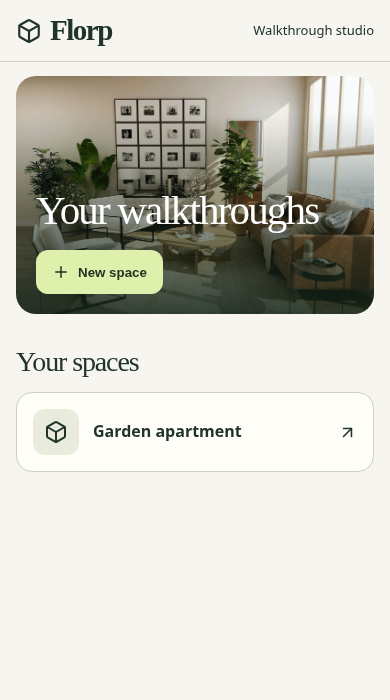
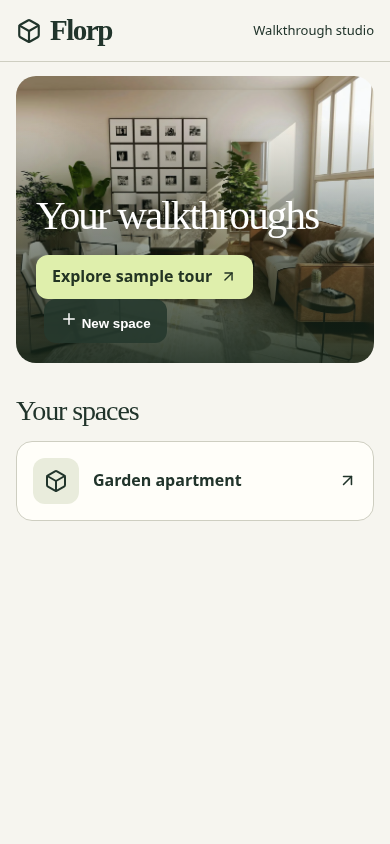
Present saved floors as guided room tours with a shareable mobile showcase

diff --git a/apps/web/components/plan/Showcase.tsx b/apps/web/components/plan/Showcase.tsx
@@ -1,0 +1,136 @@
+"use client";
+import {useEffect,useMemo,useState} from "react";
+import {Canvas,useThree} from "@react-three/fiber";
+import {Html,OrbitControls} from "@react-three/drei";
+import {Vector3} from "three";
+import Link from "next/link";
+import {ArrowLeft,Maximize2,Minimize2,Box,ChevronLeft,ChevronRight,MapPin,Pause,Play,Share2} from "lucide-react";
+import {SceneMesh} from "./SceneMesh";
+import {metersPerPixel} from "../../lib/plan/derive";
+import {savedPose} from "../../lib/plan/camera";
+import type {PlanModel} from "../../lib/plan/model";
+import type {Scene,View} from "../../lib/plan/scene";
+
+function SampleFurniture({interior}:{interior:boolean}){
+  function block(x:number,y:number,z:number,w:number,h:number,d:number,color:string){
+    return <mesh position={[x,y,z]}><boxGeometry args={[w,h,d]}/><meshStandardMaterial color={color}/></mesh>;
+  }
+  return <>
+    {Array.from({length:27},(_,i)=><group key={"board"+i}>
+      {block(5,.002,i*.25+.1,9.9,.002,.006,"#aa865f")}
+    </group>)}
+    {[3.31,4.64,5.94].map(x=><group key={x}>{block(x,1.58,.008,.035,1.65,.08,"#756955")}</group>)}
+    {block(4.625,.75,.01,2.71,.07,.17,"#99816a")}
+    {block(4.625,2.4,.01,2.71,.06,.08,"#756955")}
+    {[2.11,3.71,5.29].map(z=><group key={z}>{block(.01,1.58,z,.08,1.65,.035,"#756955")}</group>)}
+    {interior&&<>
+      {block(3,-.13,-1,50,.14,50,"#a8b391")}
+      {[-4,-1,2,6,9,14].map((x,i)=><group key={x} position={[x,0,-4-i%2]}>
+        {block(0,1,0,.2,2,.2,"#87785b")}
+        <mesh position={[0,2.6,0]} scale={[1.5,1.6+i%2*.4,1.4]}><icosahedronGeometry args={[1,2]}/><meshStandardMaterial color={i%2?"#8eaa7d":"#78946a"}/></mesh>
+      </group>)}
+    </>}
+    {block(2.6,1.7,.09,1.3,.94,.06,"#846447")}
+    {Array.from({length:27},(_,i)=><group key={"board"+i}>
+      {block(5,.002,i*.25+.1,9.9,.002,.006,"#aa865f")}
+    </group>)}
+    {[3.31,4.64,5.94].map(x=><group key={x}>{block(x,1.58,.008,.035,1.65,.08,"#756955")}</group>)}
+    {block(4.625,.75,.01,2.71,.07,.17,"#99816a")}
+    {block(4.625,2.4,.01,2.71,.06,.08,"#756955")}
+    {[2.11,3.71,5.29].map(z=><group key={z}>{block(.01,1.58,z,.08,1.65,.035,"#756955")}</group>)}
+    {interior&&<>
+      {block(3,-.13,-1,50,.14,50,"#a8b391")}
+      {[-4,-1,2,6,9,14].map((x,i)=><group key={x} position={[x,0,-4-i%2]}>
+        {block(0,1,0,.2,2,.2,"#87785b")}
+        <mesh position={[0,2.6,0]} scale={[1.5,1.6+i%2*.4,1.4]}><icosahedronGeometry args={[1,2]}/><meshStandardMaterial color={i%2?"#8eaa7d":"#78946a"}/></mesh>
+      </group>)}
+    </>}
+    {block(2.6,1.7,.135,1.19,.82,.04,"#dec59d")}
+    {block(2.78,1.62,.165,.45,.56,.025,"#aa694d")}
+    {block(2.35,1.78,.166,.3,.28,.025,"#62746a")}
+    {block(2.55,.015,2.35,3.8,.028,2.85,"#d3bca0")}
+    {block(2.4,.29,1.46,2.8,.54,1,"#68755d")}
+    {[1.57,2.4,3.23].map(x=><group key={x}>{block(x,.59,1.53,.79,.18,.72,"#8a9b7b")}</group>)}
+    {block(2.4,.7,1.06,2.8,.55,.24,"#78856c")}
+    {[1.11,3.69].map(x=><group key={x}>{block(x,.48,1.45,.24,.67,1,"#78856c")}</group>)}
+    {block(2.5,.36,2.85,1.5,.12,.68,"#b48358")}{block(2.5,.18,2.85,.86,.32,.43,"#896345")}
+    {block(3.96,.77,5.07,1.75,.12,1,"#b8875f")}
+    {[3.3,4.64].flatMap(x=>[4.72,5.42].map(z=><group key={x+"-"+z}>{block(x,.38,z,.09,.74,.09,"#796046")}</group>))}
+    {[4.27,5.88].map(z=><group key={z}>{block(3.95,.26,z,.55,.48,.5,"#a08a71")}{block(3.95,.61,z+(z<5?-.2:.2),.55,.46,.09,"#bda48a")}</group>)}
+    <mesh position={[.75,.25,1]}><cylinderGeometry args={[.28,.2,.5,20]}/><meshStandardMaterial color="#bb845e"/></mesh>
+    <mesh position={[.75,.82,1]} scale={[.46,.76,.42]}><icosahedronGeometry args={[1,1]}/><meshStandardMaterial color="#708763" flatShading/></mesh>
+  </>;
+}
+
+function CameraRig({plan,view}:{plan:PlanModel;view?:View}){
+  const {camera,size}=useThree();
+  const scale=metersPerPixel(plan)!;
+  const rig=useMemo(()=>{
+    const aspect=size.width/Math.max(1,size.height);
+    if(view){
+      const pose=savedPose(view,scale,aspect);
+      const eye=new Vector3(...pose.position);
+      return {eye,target:eye.clone().addScaledVector(new Vector3(...pose.direction),.01),fov:pose.verticalFovDeg};
+    }
+    const span=Math.max(1,plan.imageTransform.width*scale,plan.imageTransform.height*scale);
+    const target=new Vector3(plan.imageTransform.width*scale/2,.65,plan.imageTransform.height*scale/2);
+    const distance=span*1.85/Math.min(1,aspect);
+    return {target,eye:target.clone().addScaledVector(new Vector3(.82,1.1,1.22).normalize(),distance),fov:42};
+  },[plan,view,scale,size.width,size.height]);
+  const perspective=camera as import("three").PerspectiveCamera;
+  // Set the initial pose before OrbitControls reads the camera.
+  return <><primitive object={perspective} position={rig.eye} fov={rig.fov} onUpdate={()=>perspective.updateProjectionMatrix()}/>
+    <OrbitControls target={rig.target} enablePan={false} enableZoom={!view} rotateSpeed={view?-.52:.65}
+      minPolarAngle={view ? .12 : .08} maxPolarAngle={view?Math.PI-.12:Math.PI*.47}/></>;
+}
+
+export default function Showcase({plan,scene,title,back,sample=false,renders={}}:{plan:PlanModel;scene:Scene;title:string;back:string;sample?:boolean;renders?:Record<string,string>}){
+  const [stop,setStop]=useState(scene.views.length?0:-1),[playing,setPlaying]=useState(false),[notice,setNotice]=useState("");
+  const [rendered,setRendered]=useState(false),[immersive,setImmersive]=useState(false);
+  const scale=metersPerPixel(plan)!;
+  const views=scene.views,view=views[stop];
+  useEffect(()=>{
+    const read=()=>{const id=new URLSearchParams(location.hash.slice(1)).get("view");setStop(location.hash==="#overview"||!views.length?-1:Math.max(0,views.findIndex(v=>v.id===id)));};
+    read();window.addEventListener("hashchange",read);return ()=>window.removeEventListener("hashchange",read);
+  },[views]);
+  useEffect(()=>{
+    if(!playing)return;
+    const timer=setTimeout(()=>{if(stop>=views.length-1)setPlaying(false);else setStop(stop+1);},6500);
+    return ()=>clearTimeout(timer);
+  },[playing,stop,views.length]);
+  function select(index:number){setPlaying(false);setRendered(false);setStop(index);setNotice("");}
+  async function share(){
+    const url=new URL(location.href);url.hash=view?new URLSearchParams({view:view.id}).toString():"overview";
+    try{
+      if(navigator.share)await navigator.share({title,url:url.href});
+      else {await navigator.clipboard.writeText(url.href);setNotice("Tour link copied");}
+    }catch(e){if(!(e instanceof Error&&e.name==="AbortError"))setNotice(url.href);}
+  }
+  return <main className="showcase-player" data-immersive={immersive} aria-label="3D showcase">
+    <Canvas dpr={[1,1.6]} camera={{near:.005,far:2000}} fallback={<p>Enable WebGL to view this tour.</p>}>
+      <color attach="background" args={[sample&&view?"#cfdfdf":"#d8d9cb"]}/>
+      <SceneMesh m={plan} objects={scene.objects} closedDoorIds={scene.closedDoorIds} floorFinish={scene.floorFinish}/>
+      {sample&&<SampleFurniture interior={!!view}/>}
+      <CameraRig key={view?.id??"overview"} plan={plan} view={view}/>
+      {!view&&views.map((v,i)=><Html key={v.id} center position={[v.position.x*scale,2,v.position.y*scale]} zIndexRange={[2,1]}>
+        <button className="show-pin" aria-label={"Visit "+v.name} onClick={()=>select(i)}>{i+1}</button>
+      </Html>)}
+    </Canvas>
+    {view&&rendered&&renders[view.id]&&<div className="show-render"><img src={renders[view.id]} alt={"Saved design render for "+view.name}/></div>}
+    <div className="show-top"><Link href={back}><ArrowLeft size={18}/> Exit tour</Link><div className="show-tools"><button aria-label={immersive?"Show tour controls":"Hide tour controls"} aria-pressed={immersive} onClick={()=>setImmersive(!immersive)}>{immersive?<Minimize2 size={18}/>:<Maximize2 size={18}/>}</button><button onClick={share} aria-label="Share this tour"><Share2 size={18}/></button></div></div>
+    <section className="show-panel"><small>{sample?"Sample tour · ":""}{title}</small><h1>{view?.name??"Dollhouse view"}</h1>
+      <p>{view&&rendered&&renders[view.id]?"Saved design render":view?"Drag to look around.":"Drag to orbit. Pinch or scroll to zoom."}</p>
+      {view&&renders[view.id]&&<button aria-pressed={rendered} onClick={()=>{setPlaying(false);setRendered(!rendered);}}>{rendered?"Return to 3D":"Show saved design"}</button>}
+      <div className="show-stops" aria-label="Tour stops">
+        <button aria-pressed={!view} onClick={()=>select(-1)}><Box size={15}/> Overview</button>
+        {views.map((v,i)=><button key={v.id} aria-pressed={stop===i} onClick={()=>select(i)}><MapPin size={14}/>{v.name}</button>)}
+      </div>
+      {!!views.length&&<div className="show-transport">
+        <button onClick={()=>{setRendered(false);if(!playing&&stop===views.length-1)setStop(-1);setPlaying(!playing);}}>{playing?<Pause size={16}/>:<Play size={16}/>} {playing?"Pause":"Play tour"}</button>
+        <button aria-label="Previous stop" disabled={stop<0} onClick={()=>select(stop-1)}><ChevronLeft/></button>
+        <button aria-label="Next stop" disabled={stop>=views.length-1} onClick={()=>select(stop+1)}><ChevronRight/></button>
+      </div>}
+      {notice&&<p role="status">{notice}</p>}
+    </section>
+  </main>;
+}

diff --git a/apps/web/app/phone/phone.css b/apps/web/app/phone/phone.css
@@ -33,3 +33,21 @@
 .tour-shell [data-phone-step=walk] .phone-steps{order:2;position:static}
 .tour-shell [data-phone-step=walk] .scene-layout{order:1;width:100%}
 .tour-shell [data-phone-step=walk] .scene-controls>label{order:3}
+.show-launch{min-height:44px;padding:10px 16px;border-radius:12px;font-weight:650}.tour-cover .show-new{margin-left:8px;background:#26382de6}
+.tour-shell:has(.showcase-player) .tour-mast{display:none}
+.tour-shell .showcase-player{position:relative;display:grid;grid-template-rows:minmax(0,1fr) auto;width:100%;height:100dvh;max-width:none;margin:0;padding:0;background:#d8d9cb}
+.showcase-player canvas{touch-action:none}.show-top{position:absolute;top:max(16px,env(safe-area-inset-top));left:16px;right:16px;display:flex;justify-content:space-between;pointer-events:none;z-index:4}
+.show-top a,.show-top button{display:inline-flex;align-items:center;gap:8px;padding:10px 15px;background:#21342bf0;color:white;border-radius:30px;pointer-events:auto;min-height:44px}
+.show-panel{position:relative;z-index:3;padding:16px max(18px,calc((100vw - 800px)/2)) max(14px,env(safe-area-inset-bottom));background:#f7f6ef;border-radius:22px 22px 0 0;box-shadow:0 -6px 24px #28352812;max-height:48dvh;overflow:auto}
+.show-panel small{color:#576854}.show-panel h1{font:normal clamp(26px,4vw,44px)/1.05 Georgia,serif;margin:3px 0}.show-panel p{margin:5px 0 10px;overflow-wrap:anywhere}
+.show-stops,.show-transport{display:flex;align-items:center;gap:7px}.show-stops{overflow-x:auto;padding:4px 0}
+.show-stops button,.show-transport button{display:inline-flex;align-items:center;justify-content:center;gap:6px;white-space:nowrap}
+.show-stops button{background:#e6e9db;color:#293e32}.show-stops button[aria-pressed=true]{background:#324b3d;color:white}
+.show-transport{margin-top:6px}.show-transport button:first-child{margin-right:auto}.showcase-player .show-pin{border:2px solid white;border-radius:50%;min-width:44px;padding:6px;box-shadow:0 2px 8px #26382d55}
+@media(orientation:landscape) and (max-height:520px){.tour-shell .showcase-player{grid-template-columns:1fr 220px;grid-template-rows:100%}.show-panel{max-height:none;border-radius:0;padding:12px}.show-top{right:232px}.show-stops{flex-wrap:wrap}}
+.show-render{position:absolute;inset:0;grid-area:1/1;background:#1f3028;z-index:2}
+.show-render img{width:100%;height:100%;object-fit:contain}
+
+.show-tools{display:flex;gap:6px}.showcase-player[data-immersive=true] .show-panel{display:none}
+.tour-shell .showcase-player[data-immersive=true]{grid-template:100%/100%}
+.showcase-player[data-immersive=true] .show-top{right:16px}

diff --git a/apps/web/app/phone/showcase/[id]/page.tsx b/apps/web/app/phone/showcase/[id]/page.tsx
@@ -1,0 +1,45 @@
+"use client";
+import dynamic from "next/dynamic";
+import Link from "next/link";
+import {useParams} from "next/navigation";
+import {useEffect,useState} from "react";
+import {API,request,type Blueprint} from "../../../../lib/api";
+import type {PlanResponse} from "../../../../lib/plan/model";
+import type {Job,Saved} from "../../../../lib/plan/scene";
+import {metersPerPixel} from "../../../../lib/plan/derive";
+import {samplePlan,sampleScene} from "../../../../lib/plan/showcaseSample";
+
+const Player=dynamic(()=>import("../../../../components/plan/Showcase"),{ssr:false});
+export default function ShowcasePage(){
+  const {id}=useParams<{id:string}>();
+  const [data,setData]=useState<[PlanResponse,Saved,Blueprint]|null>(null),[error,setError]=useState("");
+  const [renders,setRenders]=useState<Record<string,string>>({});
+  useEffect(()=>{
+    setError("");setData(null);setRenders({});
+    if(id==="sample")return;
+    let live=true;
+    const base="/blueprints/"+encodeURIComponent(id);
+    Promise.all([request<PlanResponse>(base+"/plan"),request<Saved>(base+"/scene"),request<Blueprint>(base+"/info")])
+      .then(async value=>{
+        if(!live)return;
+        setData(value);
+        const jobs=await request<Job[]>(base+"/scene/renders").catch(()=>[]);
+        const images:Record<string,string>={};
+        for(const j of jobs){
+          if(j.status==="complete"&&j.sceneRevision===value[1].revision&&j.planRevision===value[0].revision&&!images[j.viewId]){
+            images[j.viewId]=API+base+"/scene/renders/"+encodeURIComponent(j.id)+"/result.png";
+          }
+        }
+        if(live)setRenders(images);
+      }).catch(e=>{if(live)setError(String(e));});
+    return ()=>{live=false;};
+  },[id]);
+  if(id==="sample")return <Player plan={samplePlan} scene={sampleScene} title="Courtyard apartment" back="/phone" sample/>;
+  const plan=data?.[0].model;
+  if(data&&data[2].id===id&&plan&&metersPerPixel(plan)&&(!data[1].planRevision||data[1].planRevision===plan.revision)){
+    return <Player plan={plan} scene={data[1].config} renders={renders} title={data[2].filename} back={"/phone/"+id}/>;
+  }
+  return <main className="tour-library"><Link href={"/phone/"+id}>← Back to floor</Link>
+    <p role="status">{error||(!data?"Opening showcase…":"Check the scale and save the scene against the current floor plan before presenting.")}</p>
+    {error&&<button onClick={()=>location.reload()}>Retry</button>}</main>;
+}

diff --git a/apps/web/tests/showcase.spec.ts b/apps/web/tests/showcase.spec.ts
@@ -1,0 +1,38 @@
+import {expect,test} from "@playwright/test";
+import {samplePlan,sampleScene} from "../lib/plan/showcaseSample";
+
+test("sample tour works without a project and supports dollhouse stops and playback",async({page})=>{
+  test.setTimeout(75000);
+  await page.setViewportSize({width:390,height:844});
+  await page.goto("/phone/showcase/sample");
+  await expect(page.getByRole("heading",{name:"Living room"})).toBeVisible();
+  await page.getByRole("button",{name:"Overview",exact:true}).click();
+  await page.getByRole("button",{name:"Visit Bedroom"}).click();
+  await expect(page.getByRole("heading",{name:"Bedroom"})).toBeVisible();
+  await page.getByRole("button",{name:"Living room",exact:true}).click();
+  await page.getByRole("button",{name:"Play tour"}).click();
+  await expect(page.getByRole("heading",{name:"Dining corner"})).toBeVisible({timeout:15000});
+  await page.getByRole("button",{name:"Pause"}).click();
+  await expect(page.getByRole("button",{name:"Play tour"})).toBeVisible();
+});
+
+test("saved floor tour opens its linked camera and makes no project edits",async({page})=>{
+  const writes:string[]=[];
+  await page.route("**/blueprints/f/*",r=>{
+    if(r.request().method()!=="GET")writes.push(r.request().url());
+    const end=new URL(r.request().url()).pathname.split("/").pop();
+    return r.fulfill({json:end==="plan"?{revision:1,model:{...samplePlan,id:"f"}}:
+      end==="scene"?{revision:1,planRevision:1,config:sampleScene}:{id:"f",filename:"Owner floor",project_id:"p"}});
+  });
+  await page.route("**/blueprints/f/scene/renders",r=>r.fulfill({json:[
+    {id:"current",viewId:"suite",status:"complete",planRevision:1,sceneRevision:1},
+    {id:"old",viewId:"dining",status:"complete",planRevision:1,sceneRevision:0}]}));
+  await page.goto("/phone/showcase/f#view=suite");
+  await expect(page.getByRole("heading",{name:"Bedroom"})).toBeVisible();
+  await page.getByRole("button",{name:"Show saved design"}).click();
+  await expect(page.getByAltText("Saved design render for Bedroom")).toHaveAttribute("src",/current\/result\.png$/);
+  await page.getByRole("button",{name:"Previous stop"}).click();
+  await expect(page.getByRole("button",{name:"Show saved design"})).toHaveCount(0);
+  await expect(page.getByRole("heading",{name:"Dining corner"})).toBeVisible();
+  expect(writes).toEqual([]);
+});

diff --git a/apps/web/lib/plan/showcaseSample.ts b/apps/web/lib/plan/showcaseSample.ts
@@ -1,0 +1,30 @@
+import type { PlanModel, Pt, Wall } from "./model";
+import type { Scene, View } from "./scene";
+
+const corners = [[0,0],[640,0],[1000,0],[1000,680],[640,680],[0,680]];
+const nodes = corners.map(([x,y],i)=>({id:String(i),x,y}));
+const walls: Wall[] = [[0,1],[1,2],[2,3],[3,4],[4,5],[5,0],[1,4]].map(([a,b],i)=>({
+  id:String(i),a:String(a),b:String(b),heightM:2.8,thicknessPx:14,material:"block",
+  exterior:i<6,confidence:1,source:"user",
+}));
+function room(id:string,label:string,points:number[]){
+  const polygon=points.map(i=>nodes[i]);
+  return {id,label,polygon,areaPx2:Math.abs(polygon.reduce((a,p,i)=>{const n=polygon[(i+1)%polygon.length];return a+p.x*n.y-n.x*p.y;},0))/2,wallIds:[]};
+}
+export const samplePlan:PlanModel={
+  schemaVersion:2,id:"sample",revision:1,imageTransform:{width:1000,height:680,rotation:0},
+  scale:{metersPerPixel:.01,reference:{p1:nodes[0],p2:nodes[1],lengthMeters:6.4}},nodes,walls,
+  rooms:[room("living","Living room",[0,1,4,5]),room("bedroom","Bedroom",[1,2,3,4])],
+  openings:[[0,330,265],[1,65,200],[2,185,300],[5,150,320],[6,395,110]].map(([wall,offset,width],i)=>({
+    id:"opening-"+i,kind:i===4?"door":"window",hostWallId:String(wall),offsetPx:offset,widthPx:width,
+    span:null,heightM:i===4?2.2:1.65,sillM:i===4?0:.75,swing:null,hinge:"start",status:"confirmed",confidence:1})),
+  findings:[],dismissedFindings:[],notes:[],
+};
+function stop(id:string,name:string,position:Pt,yaw:number):View{
+  return {id,name,position,yaw,pitch:-9,horizontalFov:85,eyeHeight:1.58};
+}
+export const sampleScene:Scene={floorFinish:"oak",style:"",closedDoorIds:[],
+  objects:[{id:"bed",kind:"bed",position:{x:815,y:155},width:2,depth:2.4,height:1.05,rotation:0},
+    {id:"closet",kind:"wardrobe",position:{x:935,y:530},width:1.8,depth:.7,height:2.2,rotation:90}],
+  views:[stop("lounge","Living room",{x:514,y:347},-145),stop("dining","Dining corner",{x:125,y:375},18),
+    stop("suite","Bedroom",{x:735,y:545},-72)]};

diff --git a/apps/web/app/phone/page.tsx b/apps/web/app/phone/page.tsx
@@ -27,7 +27,8 @@ export default function PhoneLibrary(){
   return <main className="tour-library">
     <section className="tour-cover"><div>
       <h1>Your walkthroughs</h1>
-      <button className="tour-primary" onClick={()=>setCreating(true)}><Plus size={18}/> New space</button>
+      <Link className="tour-primary show-launch" href="/phone/showcase/sample">Explore sample tour <ArrowUpRight size={17}/></Link>
+      <button className="show-new" onClick={()=>setCreating(true)}><Plus size={18}/> New space</button>
     </div></section>
     {creating&&<form className="tour-create" onSubmit={create}>
       <label>Space name<input autoFocus required value={name} onChange={e=>setName(e.target.value)} placeholder="Garden apartment"/></label>

diff --git a/apps/web/app/phone/[id]/page.tsx b/apps/web/app/phone/[id]/page.tsx
@@ -22,6 +22,7 @@ export default function PhonePlan(){
   },[id]);
   return <main className="phone-studio">
     <nav><Link href={info?"/phone/spaces/"+info.project_id:"/phone"}>← Floors</Link>
+      {plan?.model&&metersPerPixel(plan.model)&&<Link className="show-launch" href={"/phone/showcase/"+id}>Present floor ↗</Link>}
       <Link href={"/plan/"+id}>Review plan</Link></nav>
     <h1>{info?.filename||"Walkthrough"}</h1>
     {error?<p role="alert">{error} <button onClick={()=>location.reload()}>Retry</button></p>:

diff --git a/docs/ENVIZ_CAPABILITY_ROADMAP.md b/docs/ENVIZ_CAPABILITY_ROADMAP.md
@@ -64,3 +64,9 @@ Walk through a confirmed open doorway between rooms when the opening fits the ca
 Open the project, upload both floor pictures together and choose **Identify floors, garden and stairs**. The workspace suggests floor order from filenames or garden shading. Select the garden level as **First floor** and review the outlines on each drawing. Green outlines show possible planted areas and orange outlines show turning stairs. Remove a mistaken outline or trace a missing area, then **Save floor pair**. Both levels open in their own calibrated plan editors. Site-review outlines are annotations. Stair tread geometry in each editor comes from its architectural extraction. Alignment and walkable connections between levels remain future work.
 
 Each paired floor editor shows its saved garden and stair outlines. Calibrate each image using a known distance to see the estimated garden area in square metres. Open the other floor in a new tab to compare the stair locations.
+
+### Mobile showcase investigation · 21 November 2026
+
+In a 390 × 844 Chromium viewport, the public IBEN example opened into a furnished kitchen. Its room name stayed over the scene. The first-use overlay explained clicking to move and dragging to look. View controls sat at the edges, leaving the interior as the main content. These observations are from the browser experience. [Enviz public viewer](https://app.enviz.co/?intent=view%2FIBEN)
+
+Florp applies those presentation choices through a separate viewer. A direct link opens a saved camera stop. Visitors can look around, switch to the dollhouse and select numbered stops, or play the stops in sequence. The sample apartment opens from the library with no upload or account. Presenting a saved floor uses the current calibrated geometry, floor finish, furniture and camera names. Camera and edit tools stay in the studio. Shared links require access to the same Florp host.

diff --git a/README.md b/README.md
@@ -148,3 +148,17 @@ The integration suite runs a real API and production frontend with temporary sto
 - [Optional fixture detection weights](docs/FIXTURE_WEIGHTS.md) and [engine validation](docs/ENGINE_VALIDATION.md)
 - [Production roadmap](docs/PRODUCTION_POC_PLAN.md), [whole-home capability roadmap](docs/ENVIZ_CAPABILITY_ROADMAP.md), and [issue #1](https://github.com/BeBarefoot/Florp/issues/1)
 - [Project history](HISTORY.md)
+
+### Present a floor on a phone
+
+Open **Explore sample tour** in the phone library to try a furnished two-room apartment.
+For your own calibrated floor, save named cameras in the scene and choose **Present floor**.
+Drag to look around a room. Choose **Overview** to orbit the model and tap a numbered
+camera marker. **Play tour** advances through the saved views. **Share this tour**
+creates a link to the current stop on your Florp host. Recipients need the same host
+access as the presenter. A floor with no saved cameras opens in overview.
+Use **Hide tour controls** for an uninterrupted view. When a completed design
+render matches the camera and the saved scene and plan revisions, **Show saved
+design** displays that image. **Return to 3D** restores the interactive view.
+
+[Room presentation](docs/images/phone-showcase.png) · [Dollhouse with camera stops](docs/images/phone-dollhouse.png)
